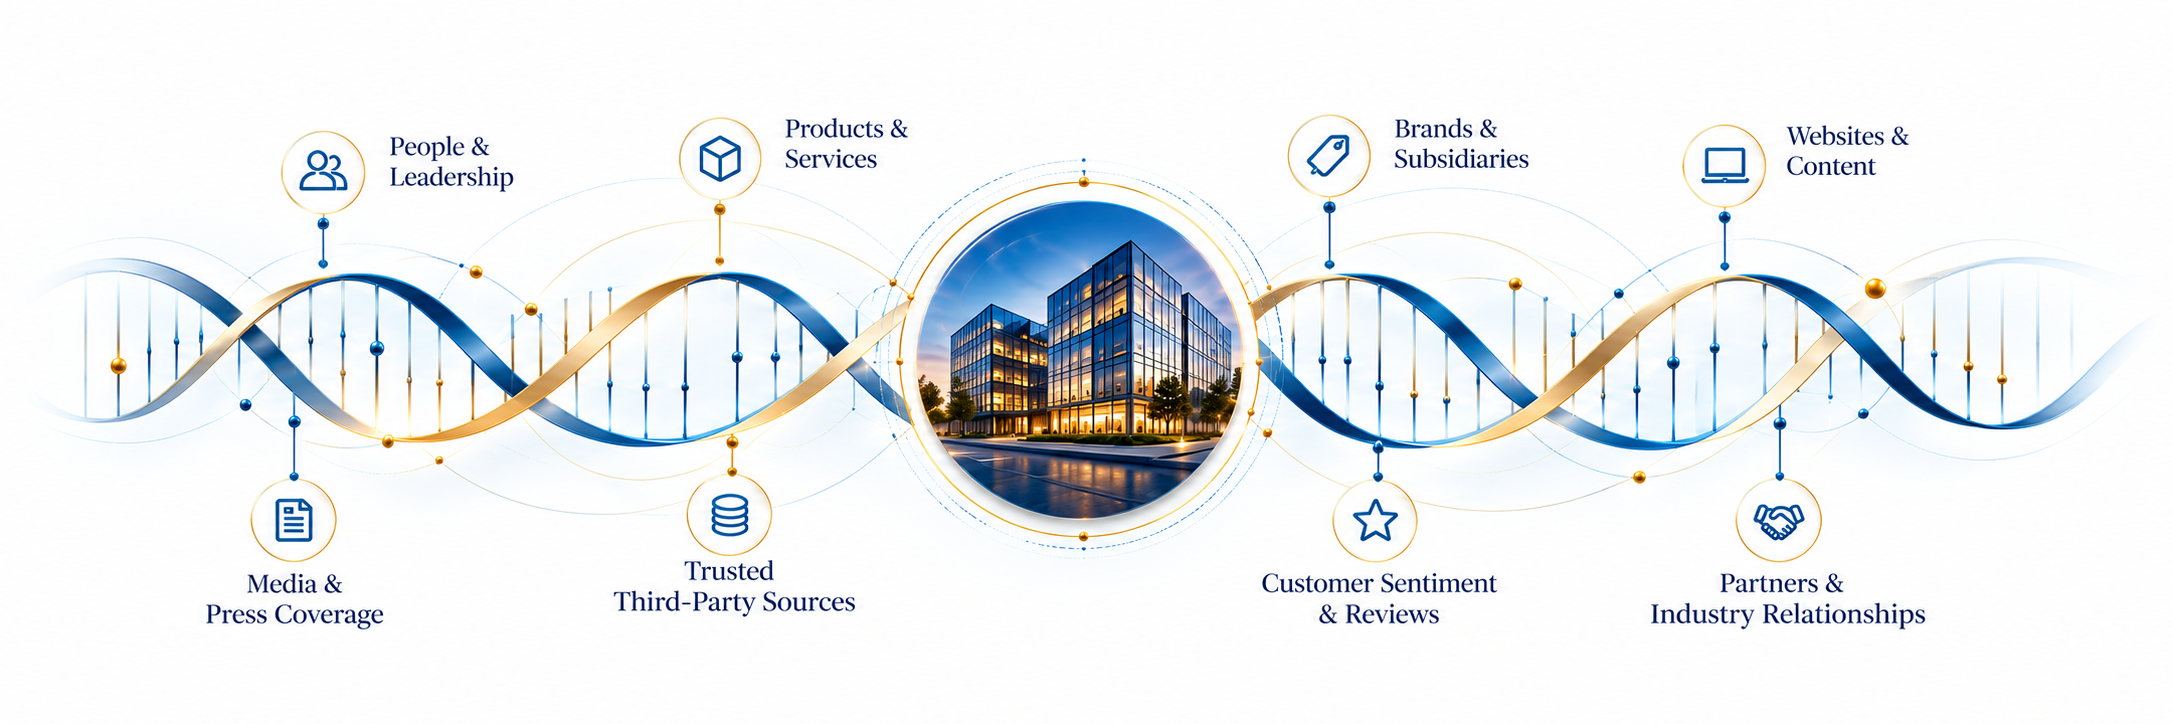
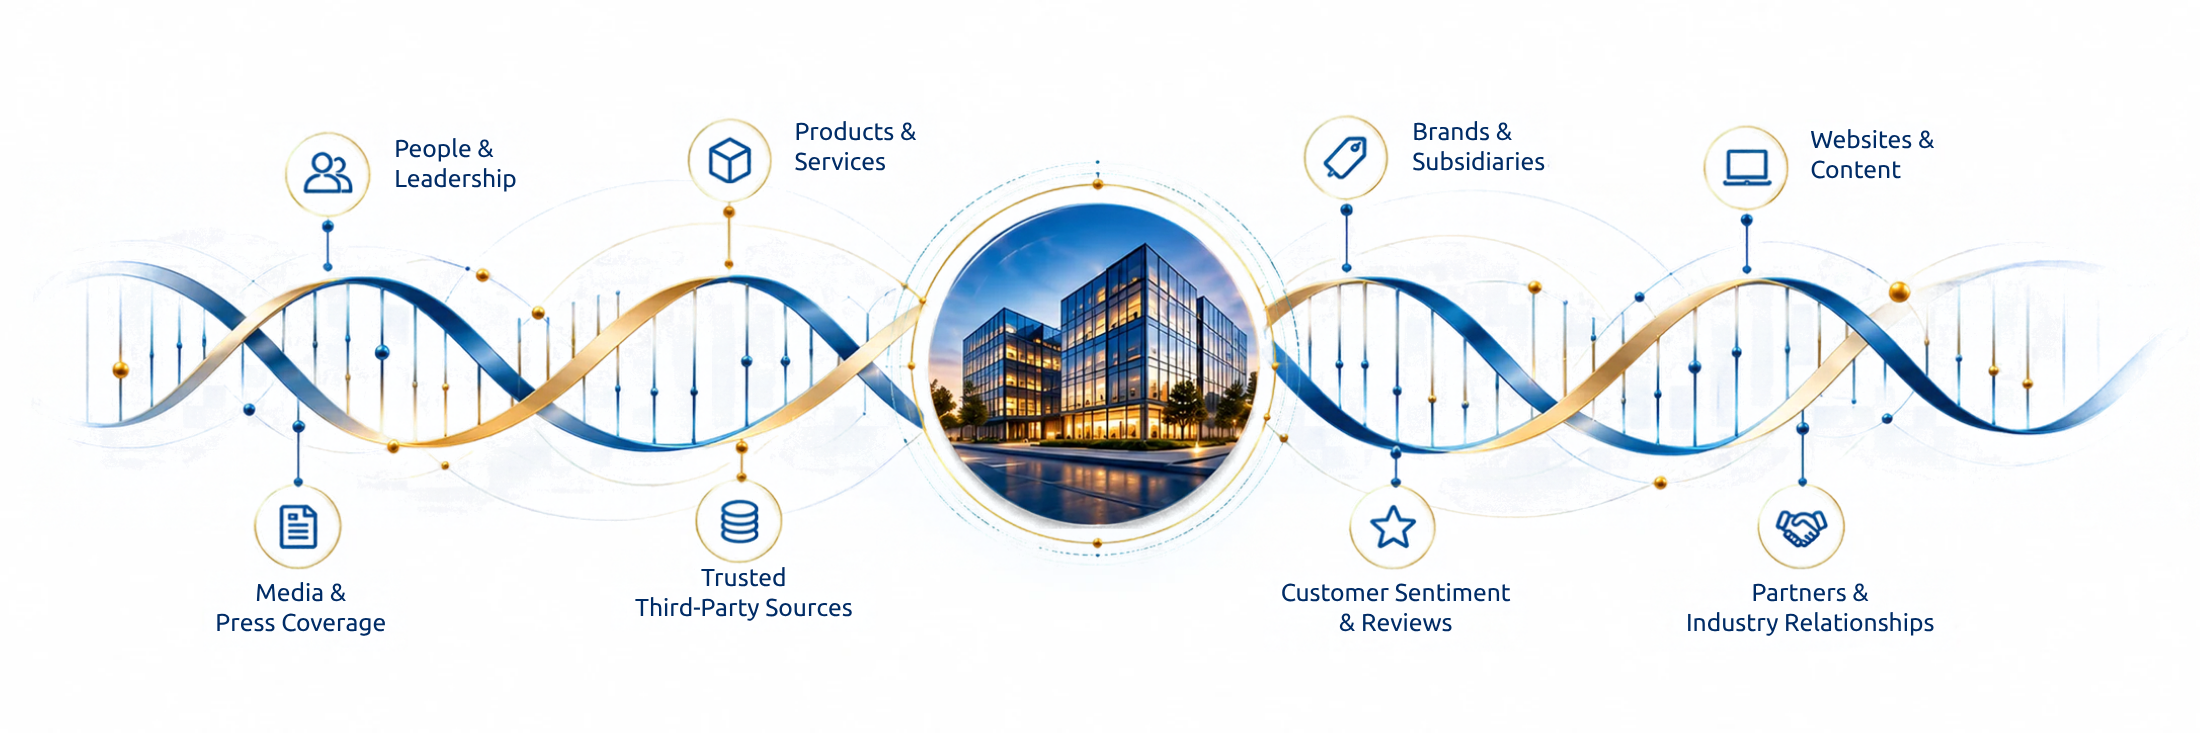
What we engineer: use the updated DNA diagram
Copies the new images/dna_corporate_ecosystem.png into
strategy-plus/images, regenerates the WebP the page serves first, and
updates the image size to 2200x733.

Claude-Session: https://claude.ai/code/session_017YzYPxMsRNTa5QpUsYjK3F

diff --git a/strategy-plus/index-ubuntu.html b/strategy-plus/index-ubuntu.html
@@ -547,7 +547,7 @@
     <p class="wwe-intro">Your executives, products, brands, content, media coverage, partners and third-party sources all contribute to how your company is understood.</p>
     <picture class="wwe-diagram">
       <source srcset="images/dna_corporate_ecosystem.webp" type="image/webp">
-      <img src="images/dna_corporate_ecosystem.png" width="2172" height="724" loading="lazy" alt="Diagram of a company at the centre of its digital ecosystem: people and leadership, products and services, brands and subsidiaries, websites and content, media and press coverage, trusted third-party sources, customer sentiment and reviews, partners and industry relationships.">
+      <img src="images/dna_corporate_ecosystem.png" width="2200" height="733" loading="lazy" alt="Diagram of a company at the centre of its digital ecosystem: people and leadership, products and services, brands and subsidiaries, websites and content, media and press coverage, trusted third-party sources, customer sentiment and reviews, partners and industry relationships.">
     </picture>
     <hr class="wwe-divider">
     <p class="wwe-close">Corporate Digital Brand Engineering brings these signals together so your company tells <span class="wwe-accent">one clear, consistent and credible story</span> across search and AI.</p>
